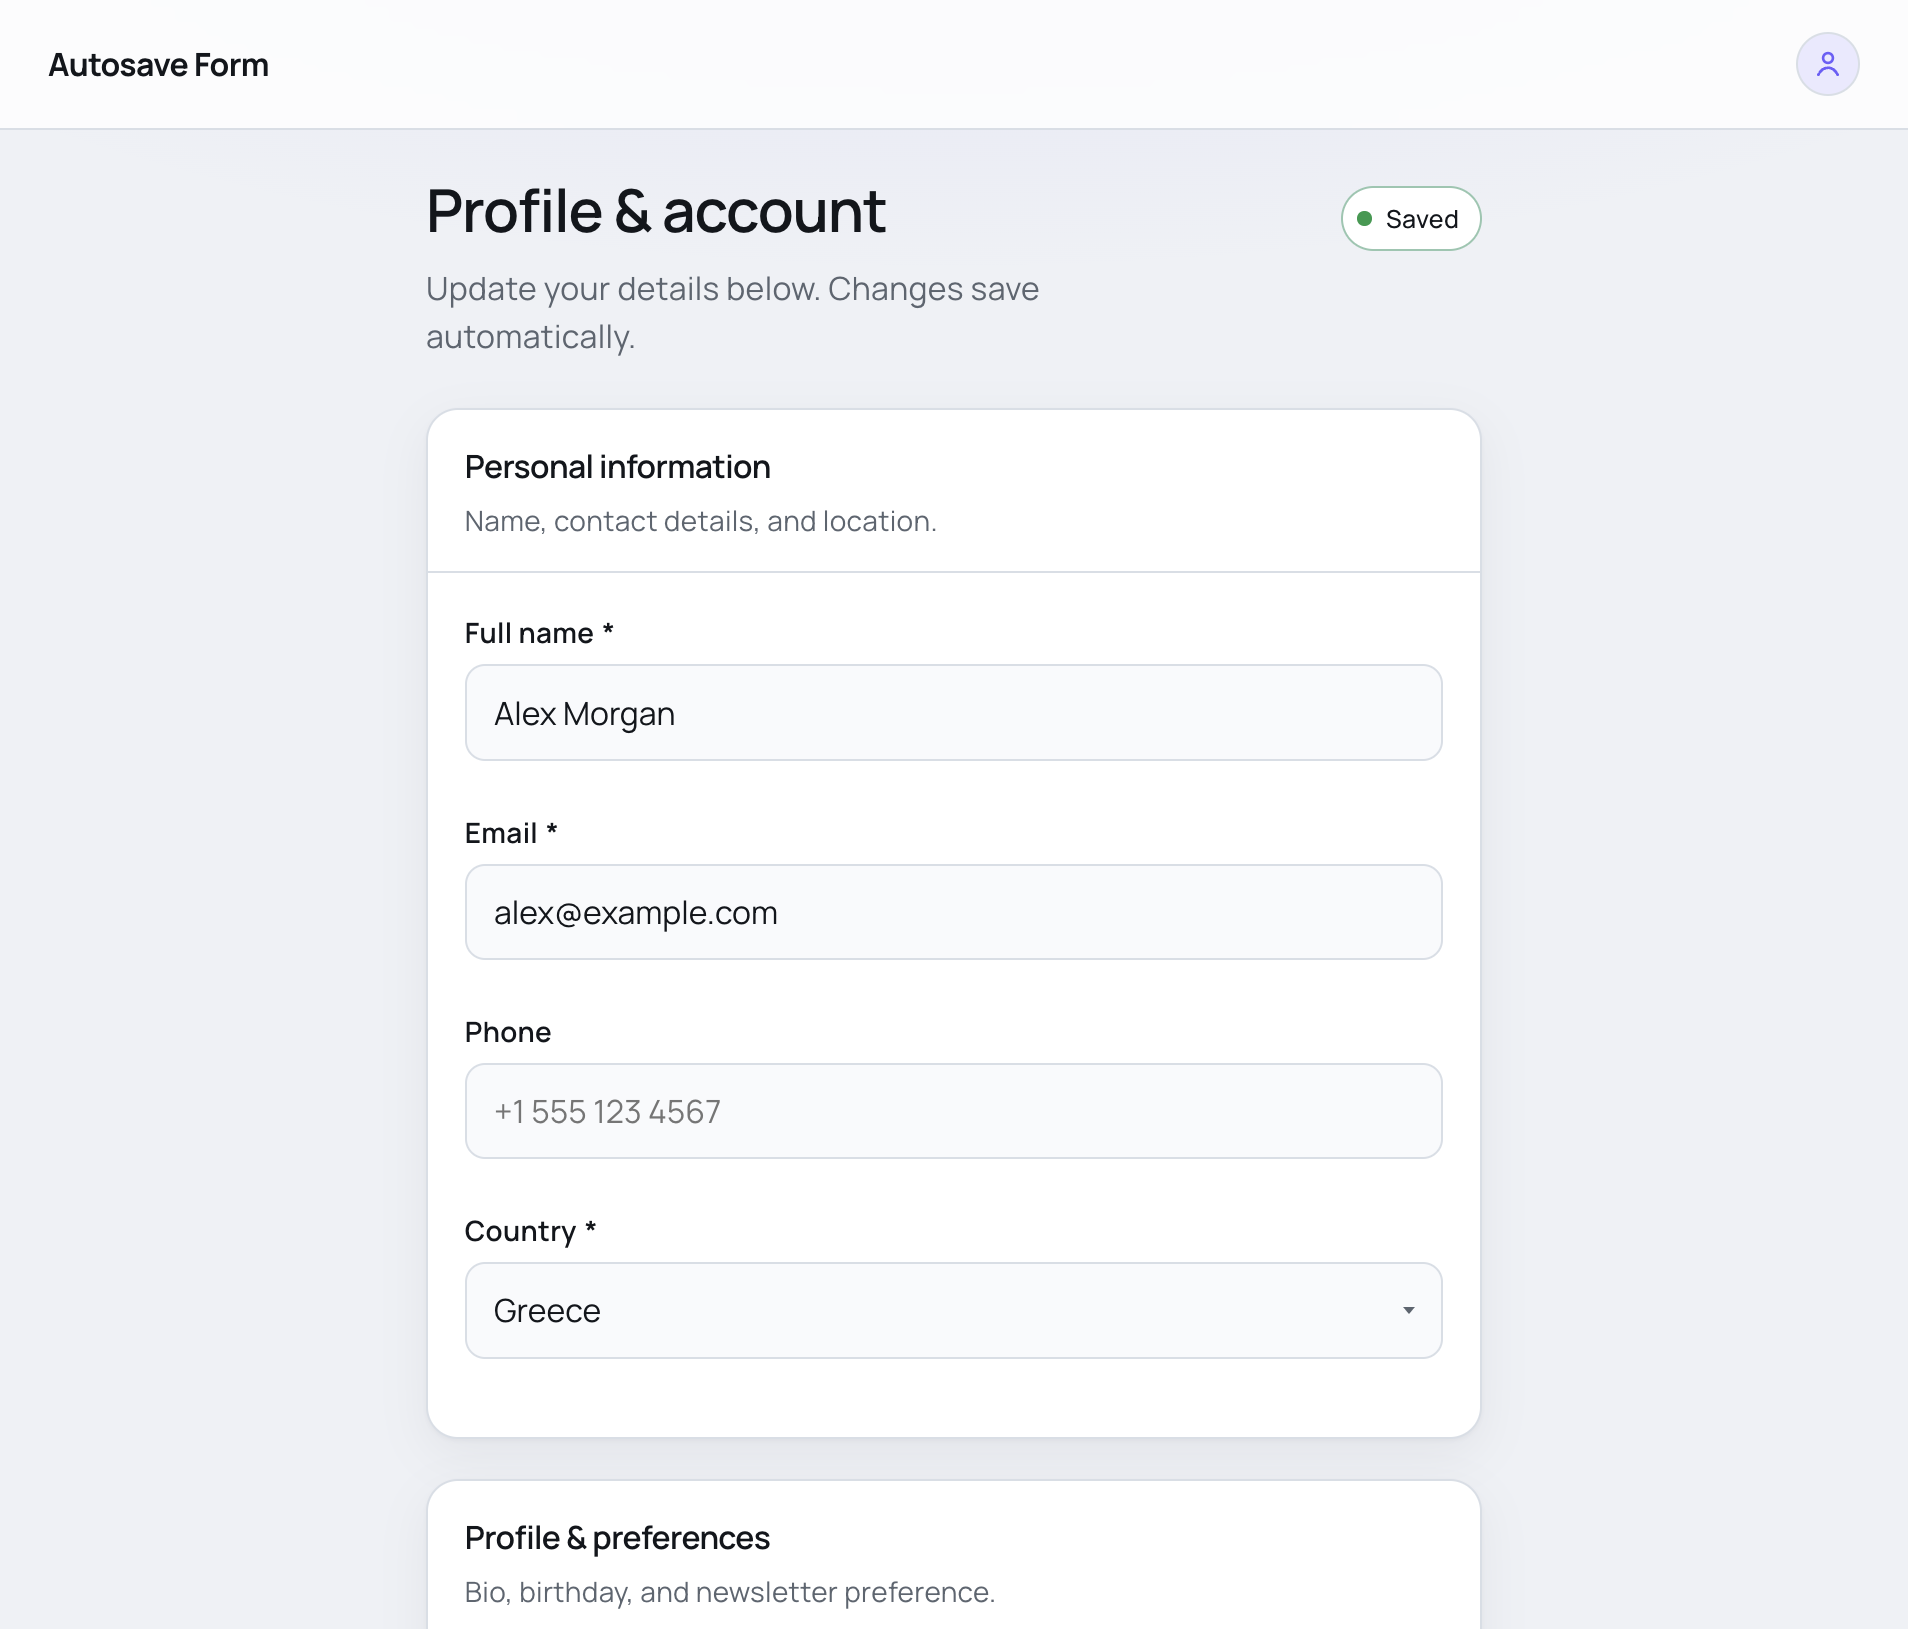
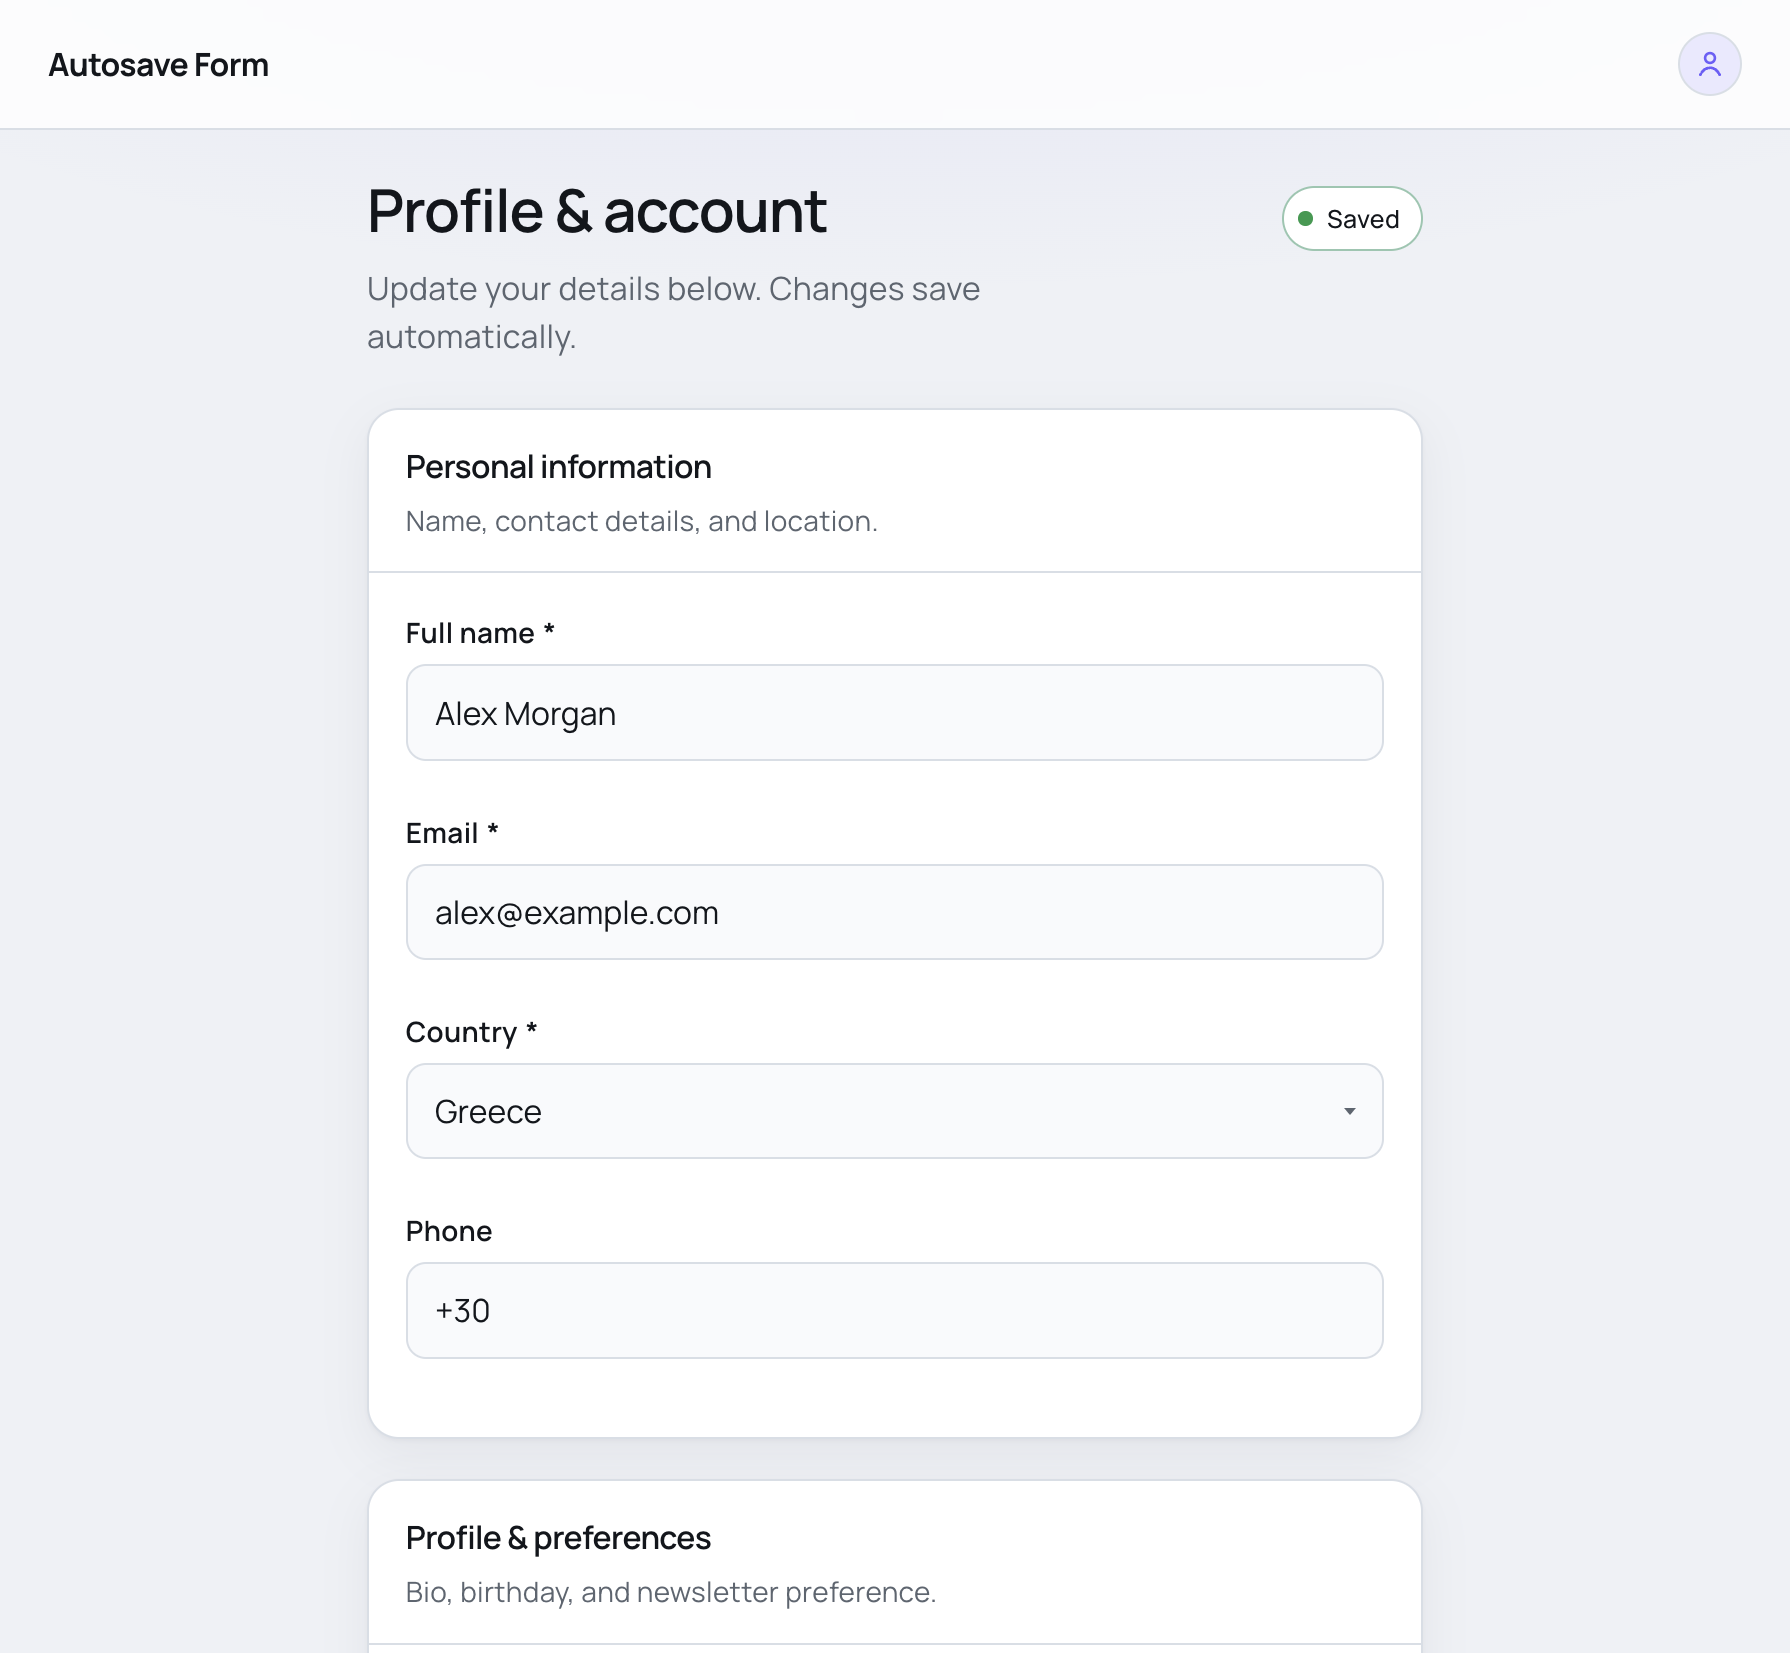
Update readme

diff --git a/README.md b/README.md
@@ -26,6 +26,8 @@ npm run build     # type-check + production build
 | `npm run format`       | Format with Prettier            |
 | `npm run format:check` | Check formatting (used in CI)   |
 
+CI (GitHub Actions) runs `format:check`, lint, test, and build on `main` and pull requests.
+
 There is no real backend. [MSW](https://mswjs.io) intercepts `GET` / `PUT /api/user-profile` in the
 browser (also enabled in production builds so the deployed demo works). Successful PUTs update an
 in-memory server profile that GET returns — groundwork for conflict reload.
@@ -77,15 +79,19 @@ latest snapshot is sent when the in-flight request finishes (avoids out-of-order
 does not block autosave — losing half-filled input is worse than storing an incomplete profile.
 The backend must treat these as drafts.
 
+**Country before phone + dial-code suggest.** Country is required and sits above phone. Choosing a
+country fills a dial prefix when the phone field is empty (or only holds a previous prefix); it
+does not overwrite a number the user has already typed. **Other** clears a prefix-only value.
+
 **Skills order = array position.** Stable `id`s identify rows; `moveSkill` / drag-and-drop /
 ↑↓ buttons reorder the list. The ordered array is what the server receives.
 
 **Errors classified at the HTTP edge.** The repository maps transport failures to
 `SaveUserProfileError` with a `retryable` flag. Transient failures (`5xx`, `408`, `429`, network)
-get exponential backoff (1s → 2s → 4s); then a manual **Retry**. Non-retryable rejects (e.g.
-generic client errors) fail fast with Retry. **`409` is conflict**: autosave pauses and local
-edits are kept. Resolve with **Keep mine** (GET revision, re-PUT local) or **Use theirs**
-(GET document into the form).
+get exponential backoff (1s → 2s → 4s) across up to 4 attempts (first try included in the
+`1/4`…`3/4` status); then a manual **Retry**. Non-retryable rejects (e.g. generic client errors)
+fail fast with Retry. **`409` is conflict**: autosave pauses and local edits are kept. Resolve
+with **Keep mine** (GET revision, re-PUT local) or **Use theirs** (GET document into the form).
 
 **Drafts in `localStorage`.** Unsynced snapshots survive reload; after a successful save the
 draft is kept as synced so hydrate still works without a GET. Trade-off: drafts can contain PII
@@ -116,6 +122,8 @@ sensor, with screen-reader drag announcements.
    revision; replace `/skills` as a unit (avoid fragile `/skills/n` indexes).
 4. ~~**Versioned save protocol**~~ — done (`revision` + conflict Keep mine / Use theirs).
 5. **Load profile from the API on boot** — then localStorage only for _unsynced_ drafts.
-6. **Broader tests** — HTTP error mapping, skills domain rules; optional MSW integration tests.
+6. **Remaining tests** — HTTP error mapping and skills domain rules; optional MSW integration
+   tests. (Profile validation, dial-code suggest, autosave, draft store, and age helpers are
+   already covered.)
 7. **Production hardening** — auth headers, timeouts, clearer conflict copy, draft encryption or
    TTL if PII retention matters.
